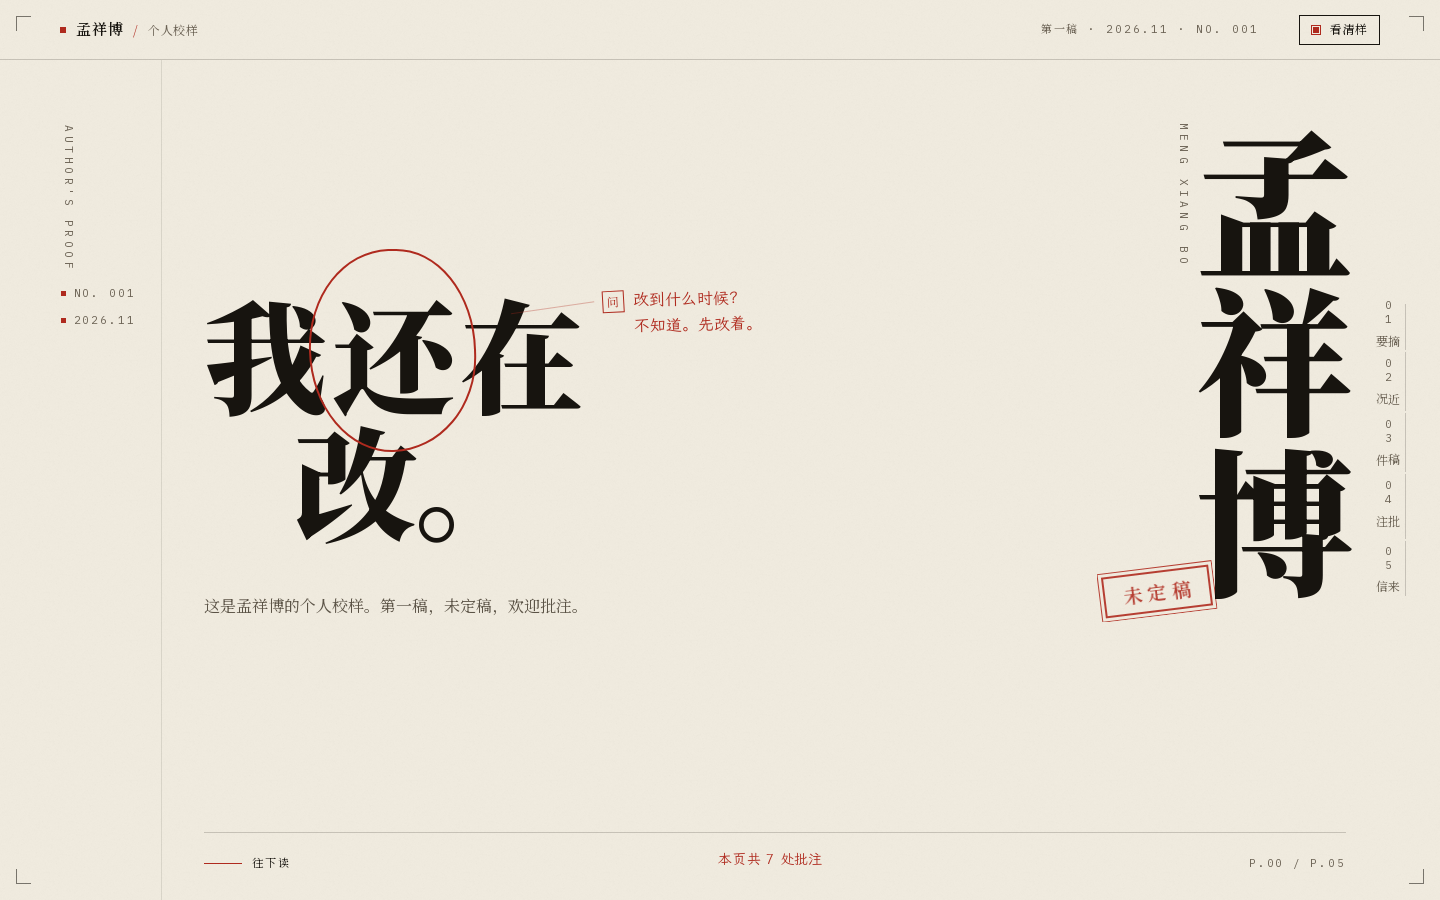
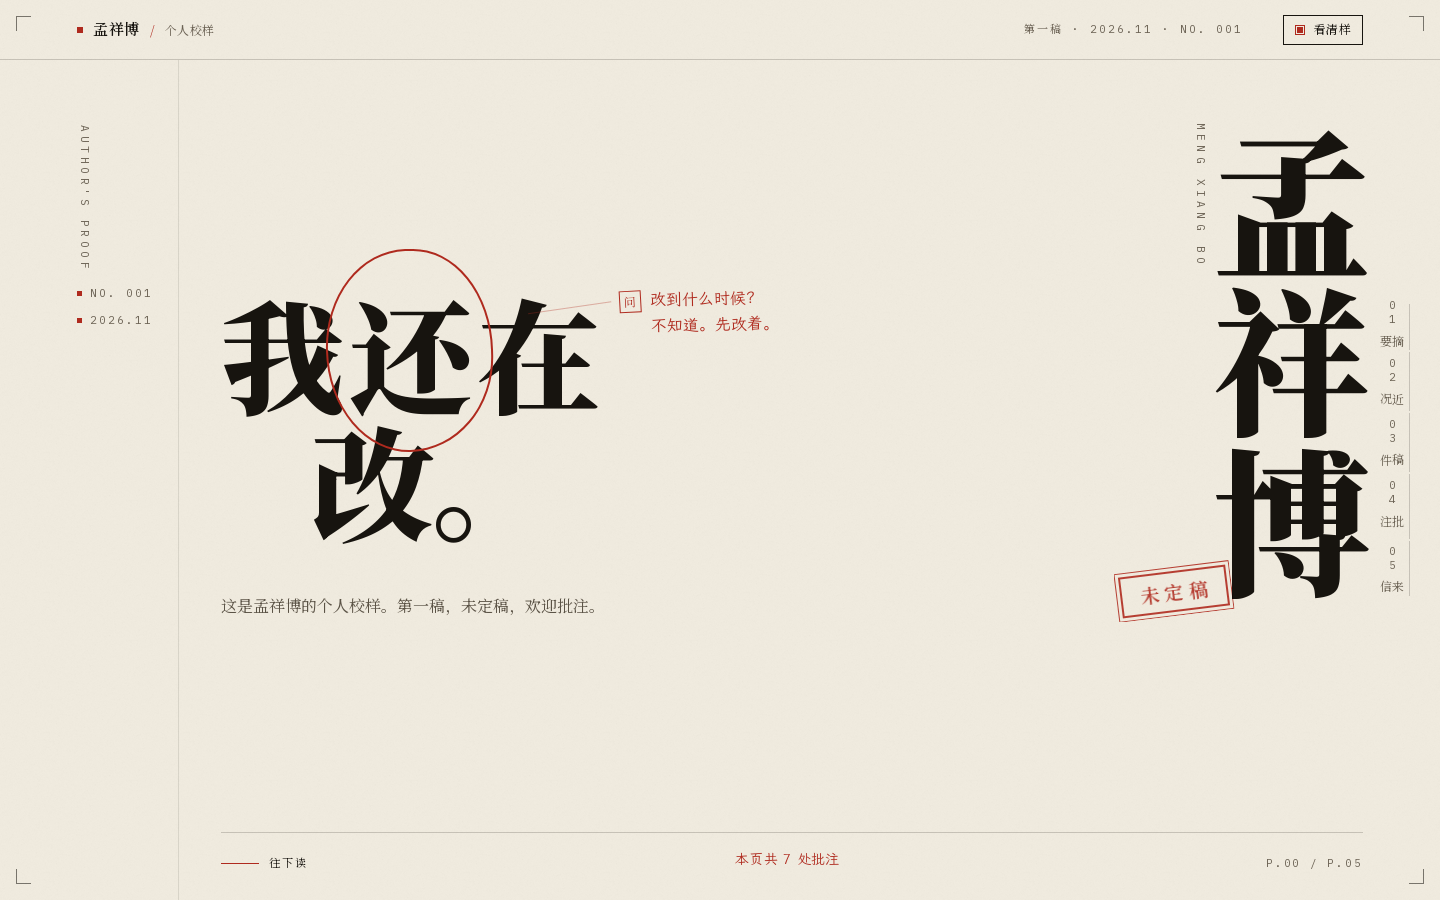
Adapt the proof sheet to 16:9, 4:3 and 9:16
Center the sheet and align the running head and tab rail to its frame; position the tab rail from the sheet rect; compress the mobile hero at short viewport heights so 4:3 800x600 and 9:16 360x640 close their first viewport. Evidence refreshed for the three aspect families.

diff --git a/assets/css/site.css b/assets/css/site.css
@@ -41,6 +41,7 @@
   --runhead-h: 60px;
   --page-max: 1300px;
   --pad: clamp(20px, 4.2vw, 64px);
+  --frame: max(var(--pad), calc((100vw - var(--page-max)) / 2));
   --bind: clamp(64px, 7vw, 104px);
   --ease-step: steps(2, end);
 }
@@ -217,7 +218,7 @@ p {
   align-items: center;
   gap: clamp(14px, 3vw, 40px);
   height: var(--runhead-h);
-  padding: 0 var(--pad);
+  padding: 0 var(--frame);
   border-bottom: 1px solid var(--rule);
   background: var(--paper);
 }
@@ -313,7 +314,7 @@ p {
   position: fixed;
   z-index: 35;
   top: 50%;
-  right: max(14px, calc((100vw - var(--page-max)) / 2 - 36px));
+  right: var(--rail-right, max(14px, calc((100vw - var(--page-max)) / 2 - 36px)));
   display: flex;
   flex-direction: column;
   align-items: flex-end;
@@ -369,8 +370,7 @@ p {
 .sheet {
   position: relative;
   width: min(calc(100% - 2 * var(--pad) - 34px), var(--page-max));
-  margin-left: auto;
-  margin-right: calc(var(--pad) + 34px);
+  margin: 0 auto;
 }
 
 .sheet__rule {
@@ -1807,6 +1807,38 @@ html[data-view="clean"] .stamp--clean {
   .colophon__foot {
     flex-wrap: wrap;
     gap: 10px 18px;
+  }
+}
+
+@media (max-width: 900px) and (max-height: 680px) {
+  .hero {
+    padding-top: 18px;
+    padding-bottom: 16px;
+  }
+  .hero__name {
+    font-size: clamp(48px, 11vh, 72px);
+  }
+  .hero__latin {
+    font-size: 11px;
+  }
+  .hero__statement {
+    margin-top: 24px;
+  }
+  .statement {
+    font-size: clamp(40px, 8.6vh, 64px);
+  }
+  .hero__note {
+    margin-top: 16px;
+    font-size: 14px;
+  }
+  .hero__sub {
+    margin-top: 18px;
+    font-size: 14px;
+  }
+  .stamp--draft,
+  .stamp--clean {
+    margin-top: 10px;
+    font-size: 15px;
   }
 }
 

diff --git a/assets/js/site.js b/assets/js/site.js
@@ -67,6 +67,10 @@
     if (!sheet) return;
     var x = rule ? rule.getBoundingClientRect().left : sheet.getBoundingClientRect().left;
     sheet.style.setProperty("--rail-x", Math.round(x) + "px");
+    var sheetRect = sheet.getBoundingClientRect();
+    root.style.setProperty("--frame", Math.round(sheetRect.left) + "px");
+    var right = Math.round(window.innerWidth - sheetRect.right - 47);
+    root.style.setProperty("--rail-right", Math.max(14, right) + "px");
   }
 
   /* active section tab */

diff --git a/DESIGN.md b/DESIGN.md
@@ -217,7 +217,7 @@ A paper-and-ink palette with two working inks: red for corrections and the activ
 - **Status words** (WenKai, 14px): 进行中 / 继续 / 搁置 / 待定, 校样中 / 已刊 / 待写.
 - **Stamp** (600, 19px, 1, 0.3em): 未定稿 / 清样; **Seal** (600, 64px, 1) for 阅.
 
-**Responsive and component sizes.** The role tokens above are the desktop spine. The build also uses these documented steps: 13px keywords and hero count; 14px status words; 15px descriptions, mobile annotation, colophon note and mobile contact secondary; 17px mobile body and note body; 19px mobile now-row titles; 21–28px note titles; 23–32px draft titles; 26–42px contact line; 30–34px signature; 30–44px mobile contact link; 50px mobile seal; 54–86px tablet statement; 62–96px mobile display; 80–150px tablet display; 32px mobile headline. These are sizes, not new voices.
+**Responsive and component sizes.** The role tokens above are the desktop spine. The build also uses these documented steps: 13px keywords and hero count; 14px status words; 15px descriptions, mobile annotation, colophon note, mobile contact secondary, short-height note/sub and stamp; 17px mobile body and note body; 19px mobile now-row titles; 21–28px note titles; 23–32px draft titles; 26–42px contact line; 30–34px signature; 30–44px mobile contact link; 50px mobile seal; 54–86px tablet statement; 62–96px mobile display; 80–150px tablet display; 32px mobile headline; 48–72px short-height name; 40–64px short-height statement. These are sizes, not new voices.
 
 ### Named Rules
 **The Two Voices Rule.** Song sets the printed statement; Kai is only for the margin, inserts, and the signature. Body copy is never set in Kai.
@@ -226,7 +226,7 @@ A paper-and-ink palette with two working inks: red for corrections and the activ
 
 ## Layout
 
-The page is one sheet, not a stack of sections. Its width is `min(100% − 2 × pad − 34px, 1300px)`, with `pad: clamp(20px, 4.2vw, 64px)`. The 34px is the fore-edge reserved for the tab index; the binding margin sits inside the sheet at `clamp(64px, 7vw, 104px)`. The page is deliberately asymmetric: a narrower binding edge on the left, a wider fore-edge on the right.
+The page is one sheet, not a stack of sections. Its width is `min(100% − 2 × pad − 34px, 1300px)`, with `pad: clamp(20px, 4.2vw, 64px)`, and it is centered in the viewport. The 34px reservation keeps the sheet off the viewport edge; the running head is inset to the sheet's left, and the fixed tab rail sits 10px outside its right edge. JS publishes both positions from the sheet's rect so the header, sheet and rail share one frame at 16:9, 4:3 and 9:16. Inside the sheet, the binding rail sits at `clamp(64px, 7vw, 104px)`; the proof-sheet asymmetry lives inside the sheet, not in the page margins.
 
 The chapter grid is three columns: **binding rail** (`clamp(64px, 7vw, 104px)`) for folios and vertical labels, **title column** (`clamp(120px, 15vw, 188px)`) for the section title, and **body** (`1fr`). Column gap is `clamp(20px, 3vw, 40px)`. Inside the body, an annotated passage is a two-column proof block: prose `1fr`, margin notes `minmax(180px, 220px)`, gap 32px. Below 1180px the notes stack under the prose and the chapter note becomes static; below 900px the title column collapses and the whole page becomes a single column.
 
@@ -235,10 +235,11 @@ The hero is a three-column grid: binding metadata, the statement, and the vertic
 The vertical rhythm is one scale: section padding `clamp(64px, 9vh, 108px)`, heading margin 12px, lede margin 40px, prose paragraphs 1.4em, note gaps 20px. More space sits above a heading than below it. Headings are sticky on desktop, static on mobile. The prose measure is capped at 38em; at 1440 it lands at about 620px, which is roughly 65–75ch in the Latin sense and 32–34 Chinese characters per line.
 
 Responsive changes:
-- **>1180px:** margin notes live in the right column; the tab index is a fixed vertical rail in the fore-edge.
+- **>1180px:** margin notes live in the right column; the tab index is a fixed vertical rail 10px outside the sheet's right edge, with the running head inset to the sheet's left.
 - **≤1180px:** notes stack under the prose; chapter notes become static; the meta line hides in the running head.
 - **≤980px:** the title column narrows to 110–150px; the sheet keeps its binding rail.
 - **≤900px:** the hero stacks, the name becomes horizontal, the tab index becomes a sticky horizontal strip, the reading line becomes a 2px bar at the very top of the viewport, and the sheet is centered with 20px margins.
+- **≤900px and ≤680px height:** the hero compresses to close its first viewport: name 48–72px, statement 40–64px, note/sub 14px, stamp 15px, and the top/bottom margins tighten. This is the 4:3 800×600 and 9:16 360×640 case; the foot stays visible.
 - **≤560px:** the running-head subtitle hides and the proof toggle tightens; the annotation count stays visible.
 
 There is no dark mode: the use scene is a paper proof under a desk lamp, and inverting it would break the material. Print is supported: chrome, tabs, crop marks, the reading line, and stamps hide; the name goes horizontal; the page prints in the documented print black on print white at 16mm margins, with 1px print-rule section lines; correction marks keep their red ink.
@@ -312,7 +313,7 @@ Square is the default. Borders are 1px; rules are 1px; the sheet has no radius. 
 ## Do's and Don'ts
 
 ### Do
-- **Do** keep the sheet asymmetric: binding margin left, fore-edge index right, 34px reserved for tabs.
+- **Do** keep the proof-sheet asymmetry inside the sheet: binding rail left, tab index at the sheet's right; the sheet itself stays centered and the running head shares its left edge.
 - **Do** keep functional text at 11px or larger and body at 17–19px with 1.88–1.95 line height.
 - **Do** keep the prose at 30–34 Chinese characters per line (about 65–75ch) and cap it at 38em.
 - **Do** use red for corrections and the active state; use blue only for the clean/paused state.
